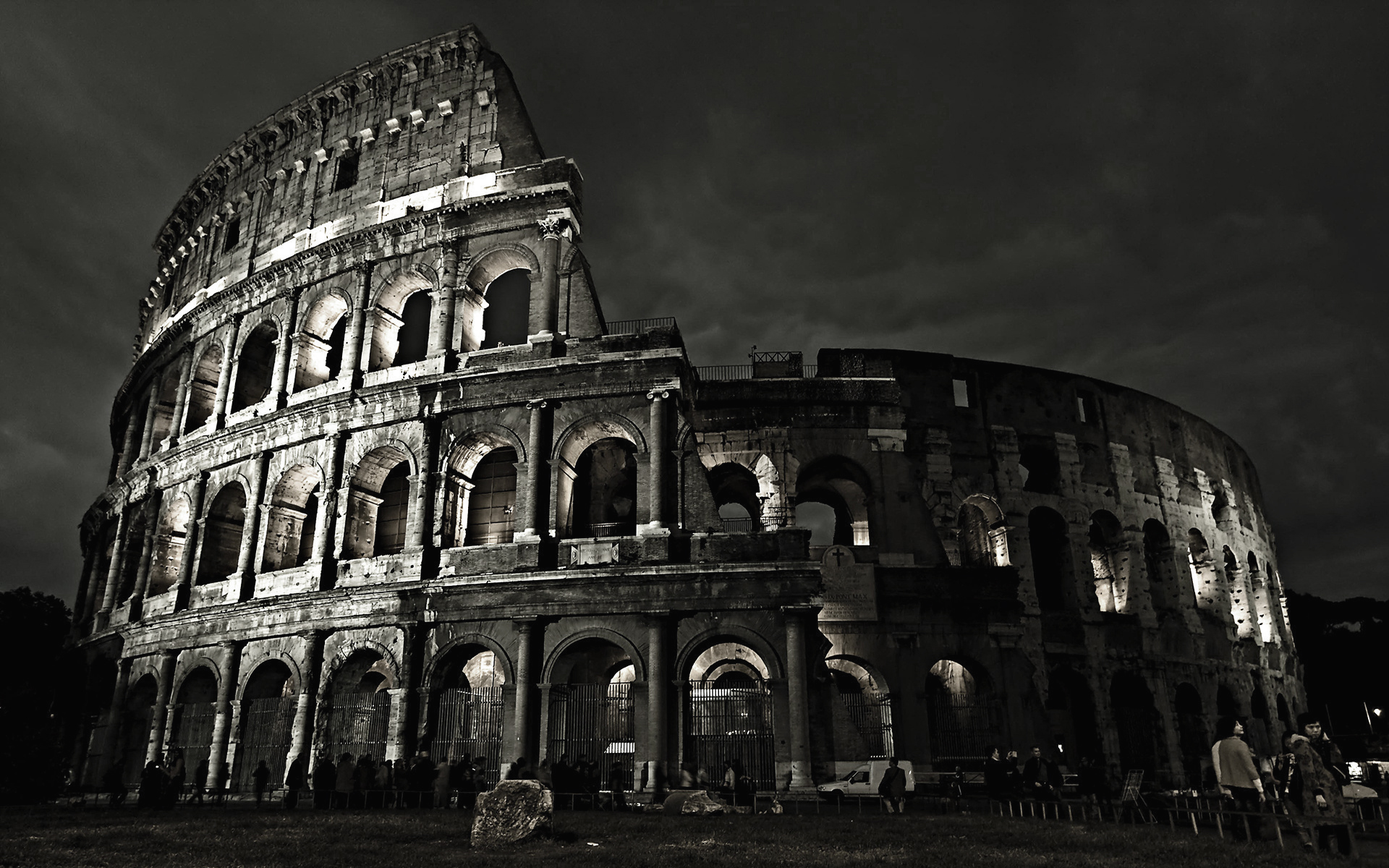
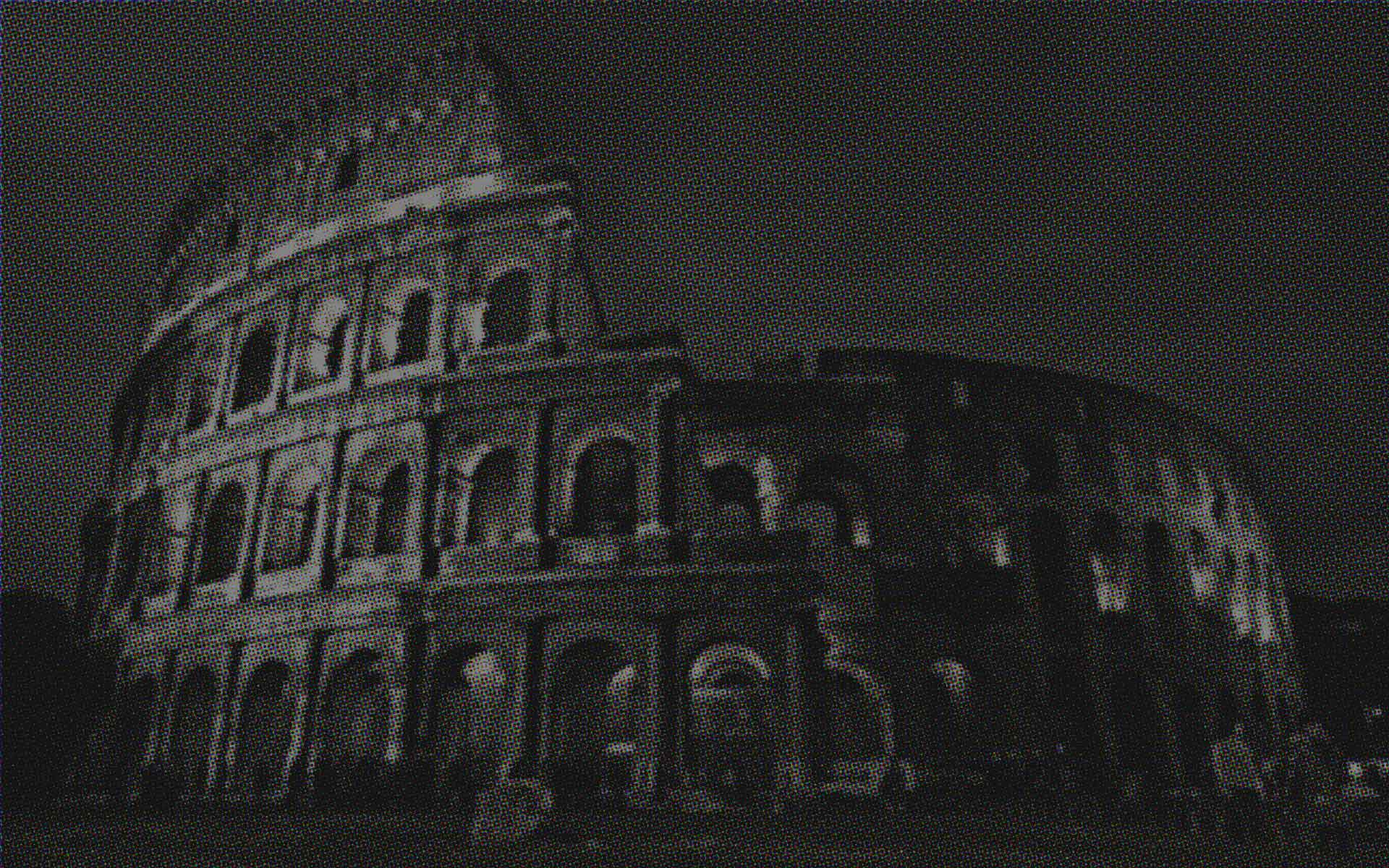
Map Image Change

diff --git a/css/agency.css b/css/agency.css
@@ -667,7 +667,7 @@ section#contact {
     text-align: center;
     color: #fff;
     background-attachment: scroll;
-    background-image: url(../img/map-image.png);
+    background-image: url(../img/map-image.jpg);
     background-position: center center;
     /*background-repeat: none;
     -webkit-background-size: cover;
